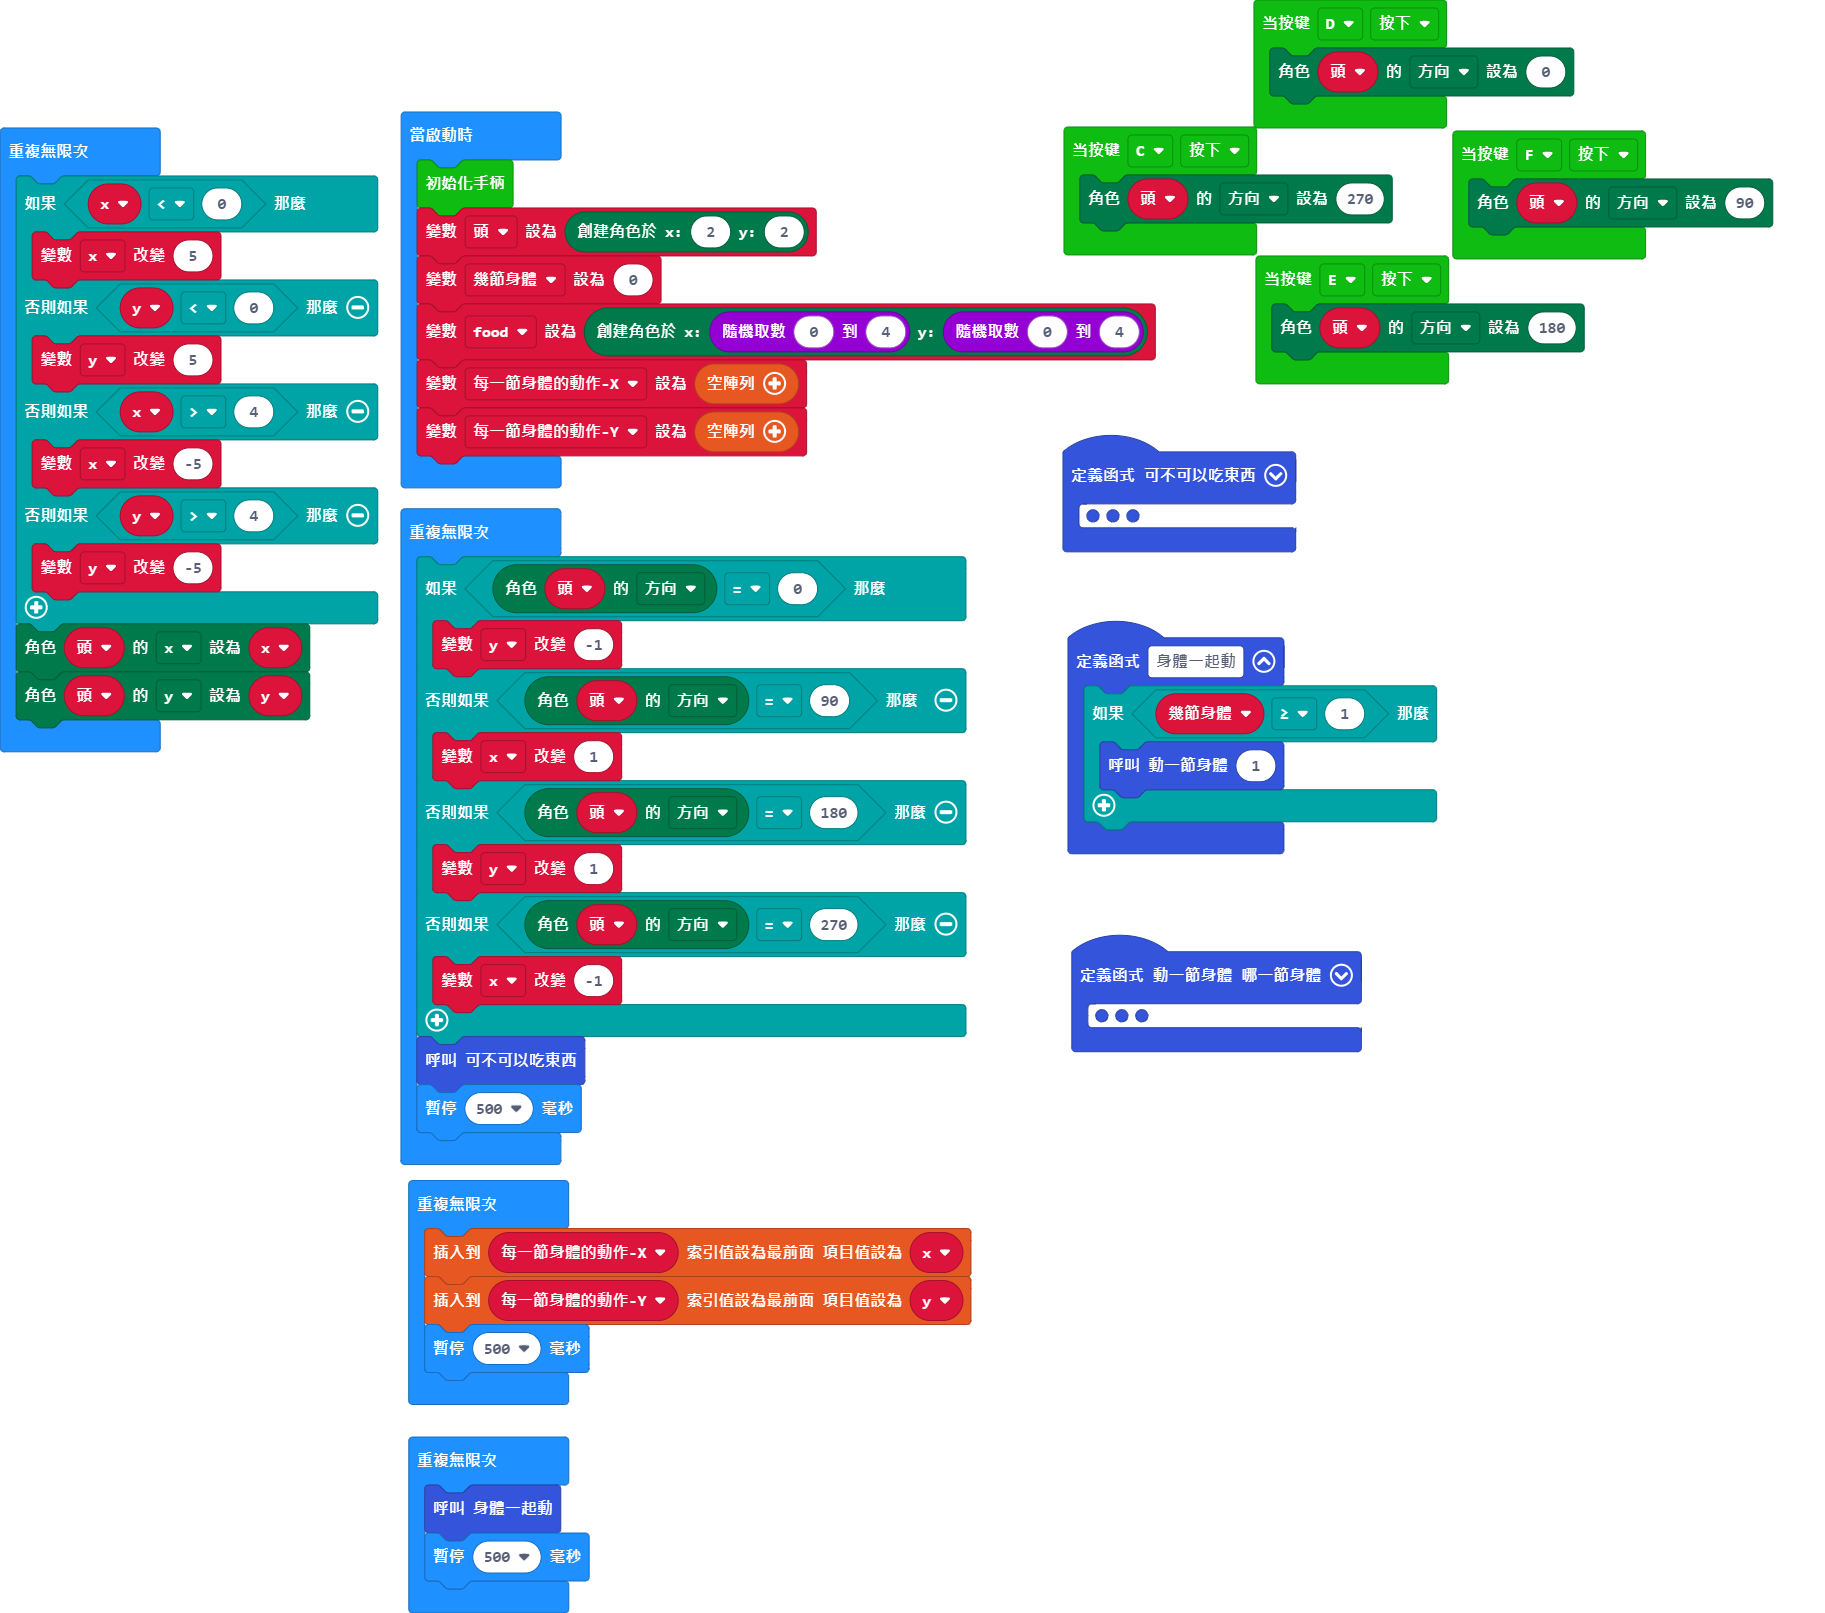
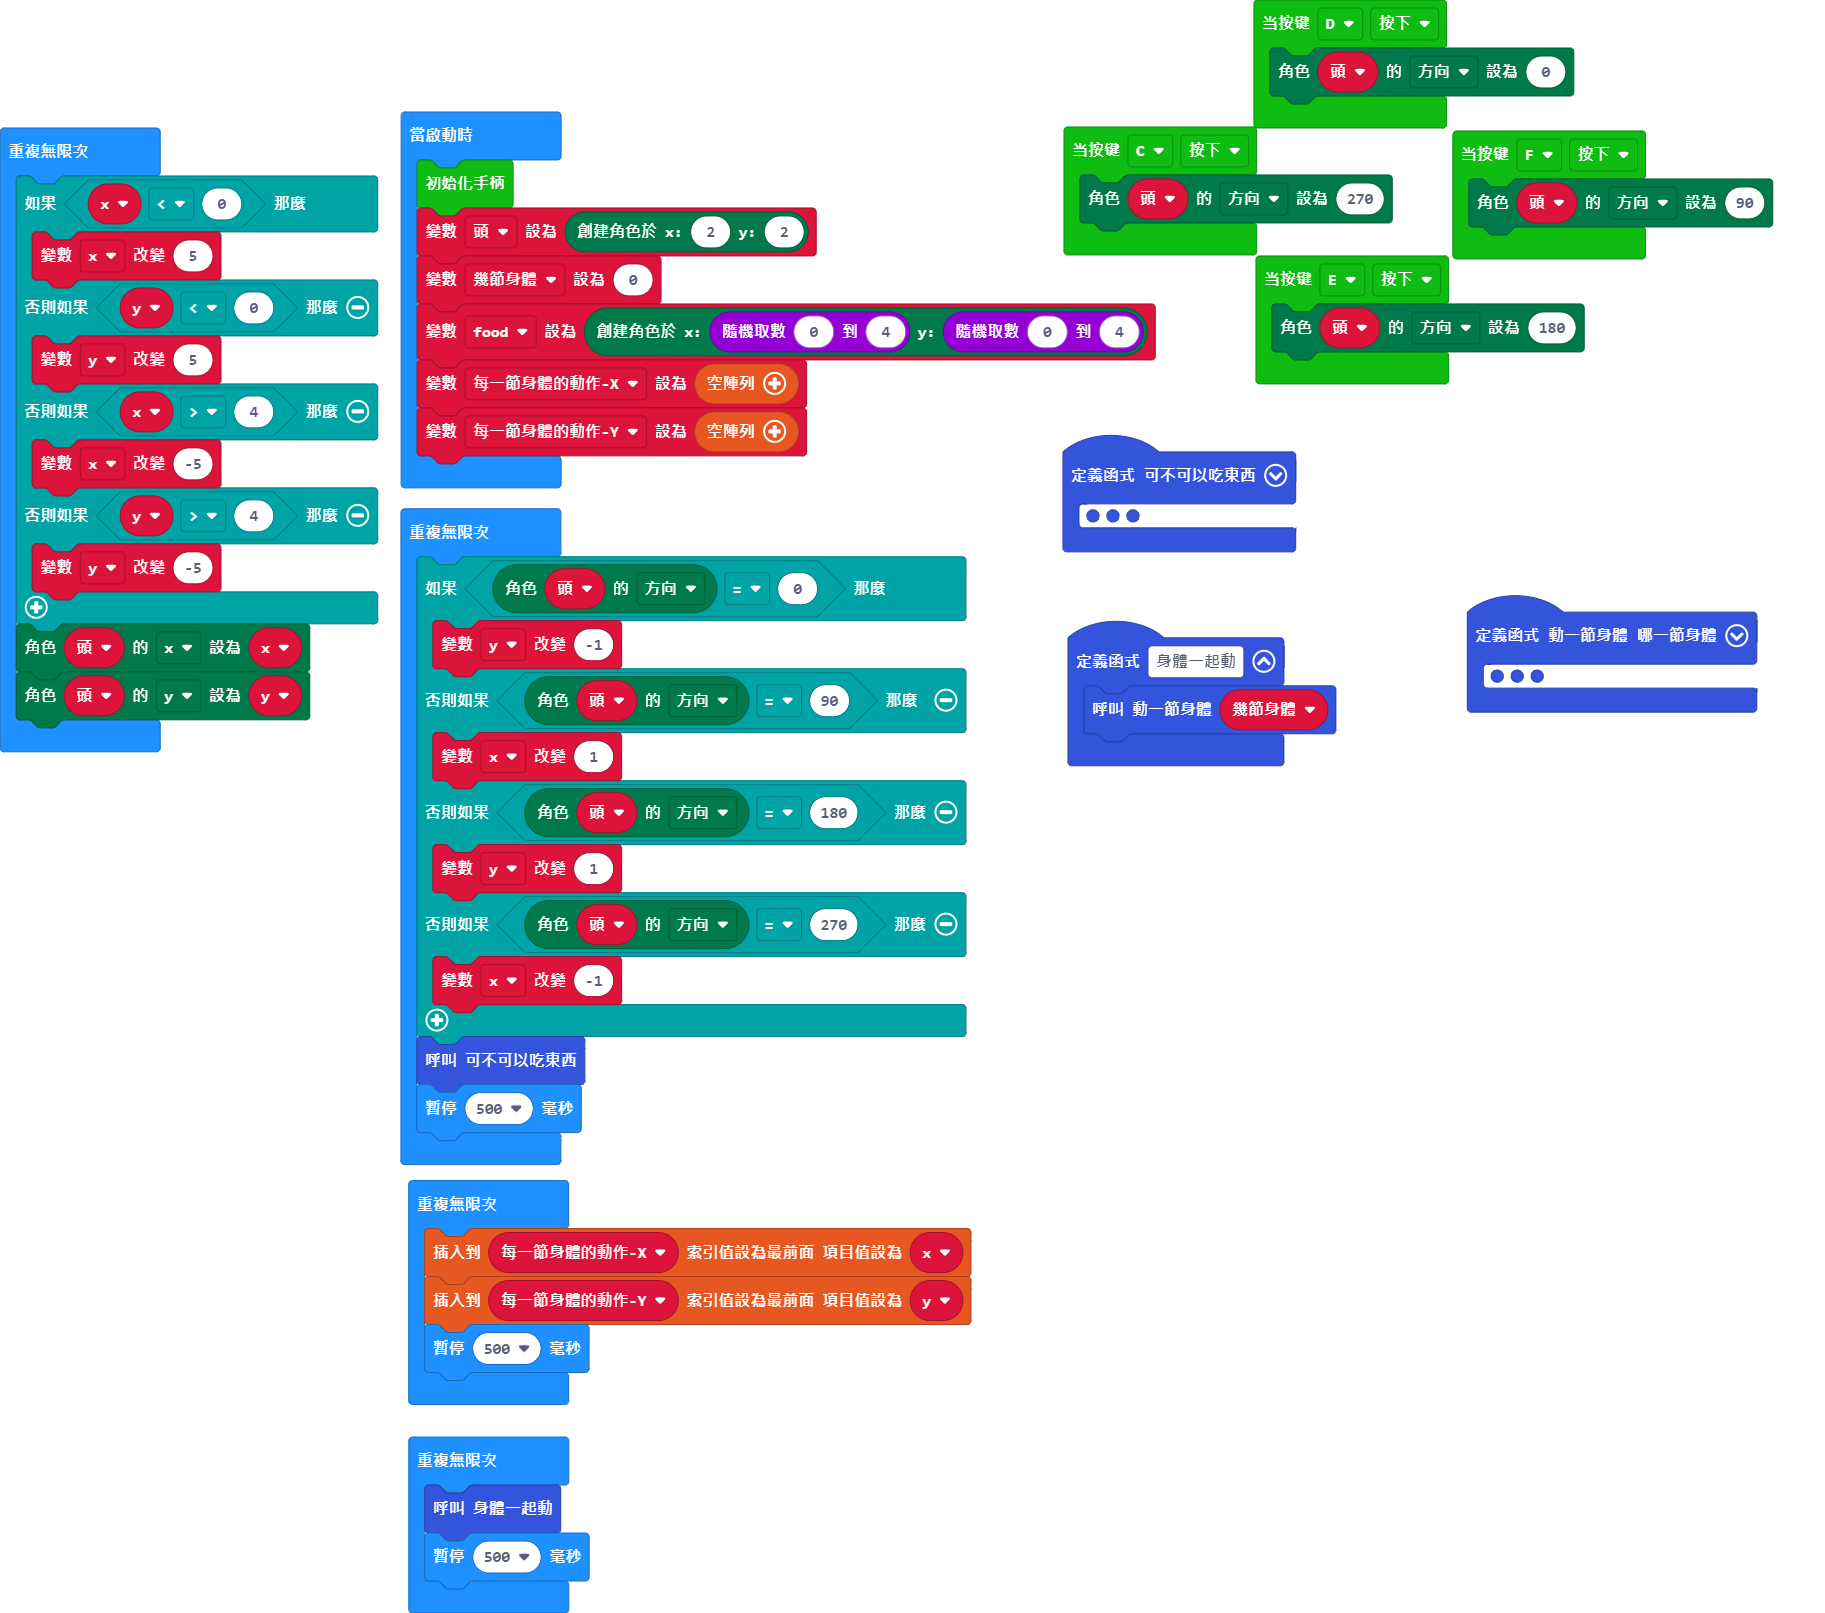
更新 main.blocks, main.ts

Changed region(s): [[0.5622, 0.372, 0.9682, 0.527], [0.5622, 0.558, 0.7496, 0.651]]

diff --git a/main.ts b/main.ts
@@ -67,9 +67,7 @@ joystickbit.onButtonEvent(joystickbit.JoystickBitPin.P15, joystickbit.ButtonType
     頭.set(LedSpriteProperty.Direction, 90)
 })
 function 身體一起動 () {
-    if (幾節身體 >= 1) {
-        動一節身體(1)
-    }
+    動一節身體(幾節身體)
 }
 let y = 0
 let x = 0
